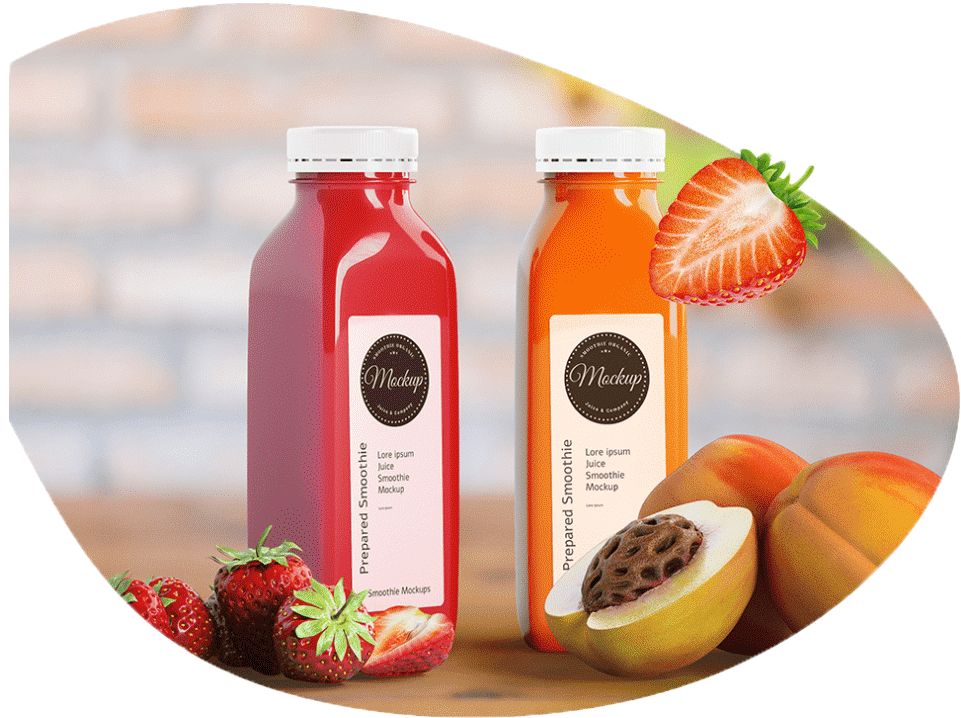
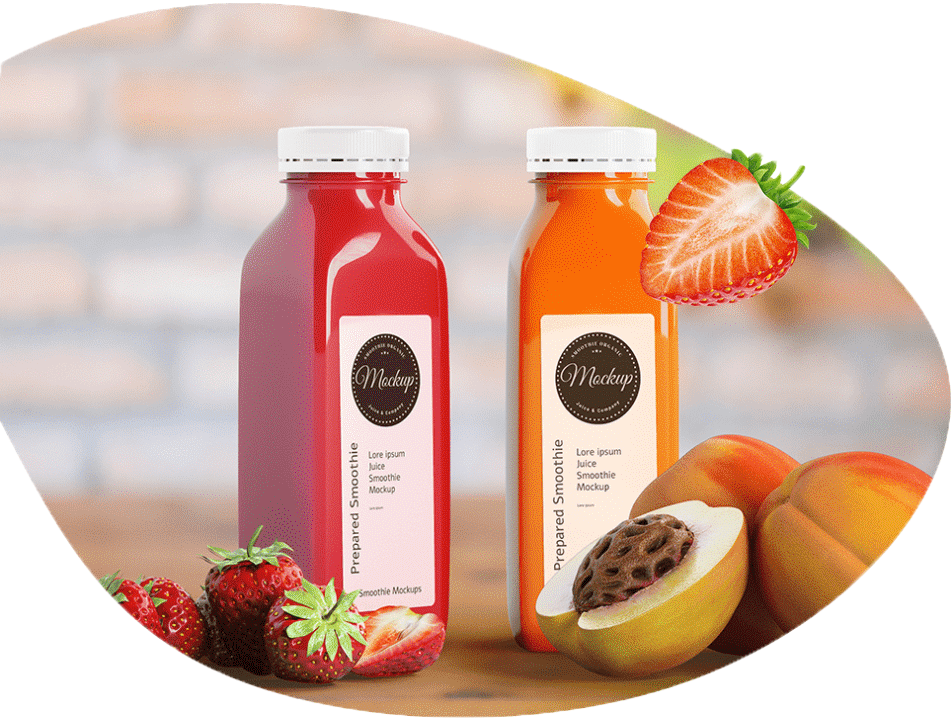
Edited showcase pictures && fixed alighments

diff --git a/fruitopia/components/sections/ProductShowcase.tsx b/fruitopia/components/sections/ProductShowcase.tsx
@@ -16,12 +16,12 @@ const ProductShowcase = () => {
               className='w-[1000px] xl:w-[1500px] 2xl:w-[2500px]'
             />
           </div>
-          <div className="relative xl:top-24 2xl:top-56 flex flex-col  xl:w-5/6  xl:mx-10">
+          <div className="relative top-5 xl:top-24 2xl:top-56 flex flex-col  xl:w-5/6  xl:mx-10">
             <div className="flex flex-col sm:flex-row  items-center text-4xl xl:text-4xl 2xl:text-5xl whitespace-nowrap">
               <p className="font-['Satisfy'] tracking-wider">Best products</p>
               <p className="ysa font-medium tracking-wide mb-3 text-[#6fa720]  mx-3">Best results</p>
             </div>
-            <div className="text-center sm:text-left xl:text-base 2xl:text-xl text-slate-800 tracking-wider leading-7  xl:w-5/6 2xl:w-full  my-10 font-Ysabeau " >
+            <div className="text-center mx-4 sm:mx-0 sm:text-left xl:text-base 2xl:text-xl text-slate-800 tracking-wider leading-7  xl:w-5/6 2xl:w-full  my-10 font-Ysabeau " >
               <p className="my-3 text-2xl 2xl:text-3xl  font-[Satisfy]"> Our commitment to excellence shines through in every sip of our juices. </p>
               <p className="font-normal">
                 Each carefully crafted blend is made with the finest fruits, ensuring the best product and delivering exceptional results for your health and well-being. Experience the difference and unlock the power of nature&apos;s goodness with our top-quality offerings.
@@ -49,14 +49,14 @@ const ProductShowcase = () => {
               className='w-[0px] xl:w-[180px] 2xl:w-[200px]'
             />
           </div>
-          <div className="sm:relative mx-auto xl:top-24 2xl:top-40 2xl:mt-40 sm:right-32 2xl:right-48 flex flex-col xl:w-1/2 ">
-            <div className="flex flex-col sm:flex-row items-center text-4xl xl:text-4xl 2xl:text-4xl whitespace-nowrap">
+          <div className="sm:relative mx-auto top-5 xl:top-24 2xl:top-40 2xl:mt-40 sm:right-32 2xl:right-48 flex flex-col xl:w-1/2 ">
+            <div className="flex flex-col mt-5 sm:mt-0 sm:flex-row items-center text-4xl xl:text-4xl 2xl:text-4xl whitespace-nowrap">
               <p className="font-['Satisfy']  tracking-wider">Always Organic </p>
               <p className="ysa font-[Belanosima] font-medium mb-3 tracking-wide text-[#6fa720]  mx-3">Always Fresh</p>
             </div>
-            <div className="font-normal font-Ysabeau  xl:text-base 2xl:text-xl text-slate-800 tracking-wider  leading-7 xl:w-3/4   my-10 " >
+            <div className="font-normal font-Ysabeau mx-4 sm:mx-0  xl:text-base 2xl:text-xl text-slate-800 tracking-wider  leading-7 xl:w-3/4   my-10 " >
               <p className="font-[Satisfy] text-2xl 2xl:text-3xl text-center sm:text-left">At our juice company, we take pride in our unwavering dedication to organic practices. From farm to bottle, we select only the freshest organic fruits.</p>
-              <ul className="mt-12 mx-4 sm:mx-0  text-xl sm:whitespace-nowrap list">
+              <ul className="mt-12 mx-4 sm:mx-0  sm:text-xl  sm:whitespace-nowrap list">
                 <li>Pure nutrition without pesticides or additives</li>
                 <li>Support sustainable agriculture and a healthier planet.</li>
                 <li>Experience the true flavors of fresh fruits.</li>
@@ -65,7 +65,7 @@ const ProductShowcase = () => {
             </div>
           </div>
 
-          <div className="sm:absolute sm:-right-1 order-1">
+          <div className="sm:absolute sm:-right-4 order-first sm:order-last">
             <Image
               src="/assets/productshowcase2.png"
               alt="productshowcase1"
@@ -76,7 +76,7 @@ const ProductShowcase = () => {
           </div>
         </div>
         {/* PANEL 3*/}
-        <div className="flex flex-col sm:flex-row mt-24 2xl:mt-96">
+        <div className="flex flex-col sm:flex-row mt-5 2xl:mt-96">
           <div className="relative -left-3">
             <Image
               src="/assets/productshowcase3.png"

diff --git a/fruitopia/components/sections/Recipes.tsx b/fruitopia/components/sections/Recipes.tsx
@@ -28,7 +28,7 @@ const Recipes = () => {
   return (
     <section id="shop" className="h-full">
       {/* PRODUCT TITLE */}
-      <div className="container mx-auto sm:-mt-10 2xl:px-24 pt-36 xl:pt-24 2xl:pt-32">
+      <div className="container mx-auto sm:-mt-10 2xl:px-24 pt-16 xl:pt-24 2xl:pt-32">
         <div className="mx-auto text-center  xl:w-1/2 flex flex-col w-full ">
           <div className="flex  items-center justify-center text-4xl  2xl:text-5xl flex-col sm:flex-row">
             <span className="font-['Satisfy'] tracking-wider">Our favorite </span>

diff --git a/fruitopia/components/ui/RecipeCard.tsx b/fruitopia/components/ui/RecipeCard.tsx
@@ -13,7 +13,7 @@ type Props = {
 
 const RecipeCard: FC<Props> = ({ name, price, image }) => {
   return (
-    <div className="sm:my-0">
+    <div className="my-5 sm:my-0">
       <Image
         src={image}
         alt={name}

diff --git a/README.md b/README.md
@@ -2,7 +2,6 @@
 
 ## TODO
 
-- [ ] edit showcase pictures 
 - [ ] fix element alignments
 - [ ] add search button for dynamic search
 - [ ] usable cart 
@@ -12,6 +11,7 @@
 
 ## Completed
 
+- [x] edit showcase pictures 
 - [x] Add newsletter functionality
 - [x] mobile screen fix: footer section alignments
 - [x] mobile screen fix: story title 
